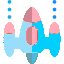
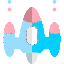
Bullet
Added bullet image and fired from front of spaceship

diff --git a/main.py b/main.py
@@ -29,6 +29,17 @@ enemyX = random.randint(0,800)
 enemyY = random.randint(50,150)
 enemyX_change = 2
 enemyY_change = 40 
+
+
+# Bullet
+
+# Ready State - you can't see the bullet on the screen
+# Fire state - the bullet is currently moving
+bulletImg = pygame.image.load('imgs/bullet.png')
+bulletX = 0
+bulletY = 480
+bulletY_change = 2
+bullet_state = "ready"
     
 def player(x, y):
     # screen.blit(playerImg, (playerX, playerY))
@@ -36,6 +47,11 @@ def player(x, y):
 
 def enemy(x,y):
     screen.blit(enemyImg, (x,y))
+
+def fire_bullet(x,y):
+    global bullet_state
+    bullet_state = "fire"
+    screen.blit(bulletImg, (x + 16,y + 10)) # shows up in the center of the spaceship
 
 # keep our game running
 # Game Loop
@@ -64,6 +80,8 @@ while running:
             if event.key == pygame.K_RIGHT:
                 #print("Right arrow is pressed")
                 playerX_change = + 5
+            if event.key == pygame.K_SPACE:
+                fire_bullet(playerX, bulletY)
         if event.type == pygame.KEYUP:
             if event.key == pygame.K_LEFT or event.key == pygame.K_RIGHT: 
                 #print("Keystoke has been released")
@@ -79,6 +97,8 @@ while running:
     elif playerX >= 736: # 800-64
         playerX = 736
 
+    
+
     # Enemy movement
     enemyX += enemyX_change
 
@@ -88,6 +108,14 @@ while running:
     elif enemyX >= 736: # 800-64
         enemyX_change = -2
         enemyY += enemyY_change
+
+
+    # Bullet movement
+    # default for bullet is READY
+    # when spacebar hit, state changes to FIRE
+    if bullet_state is "fire":
+        fire_bullet(playerX, bulletY)
+        bulletY -= bulletY_change
     
         
     
